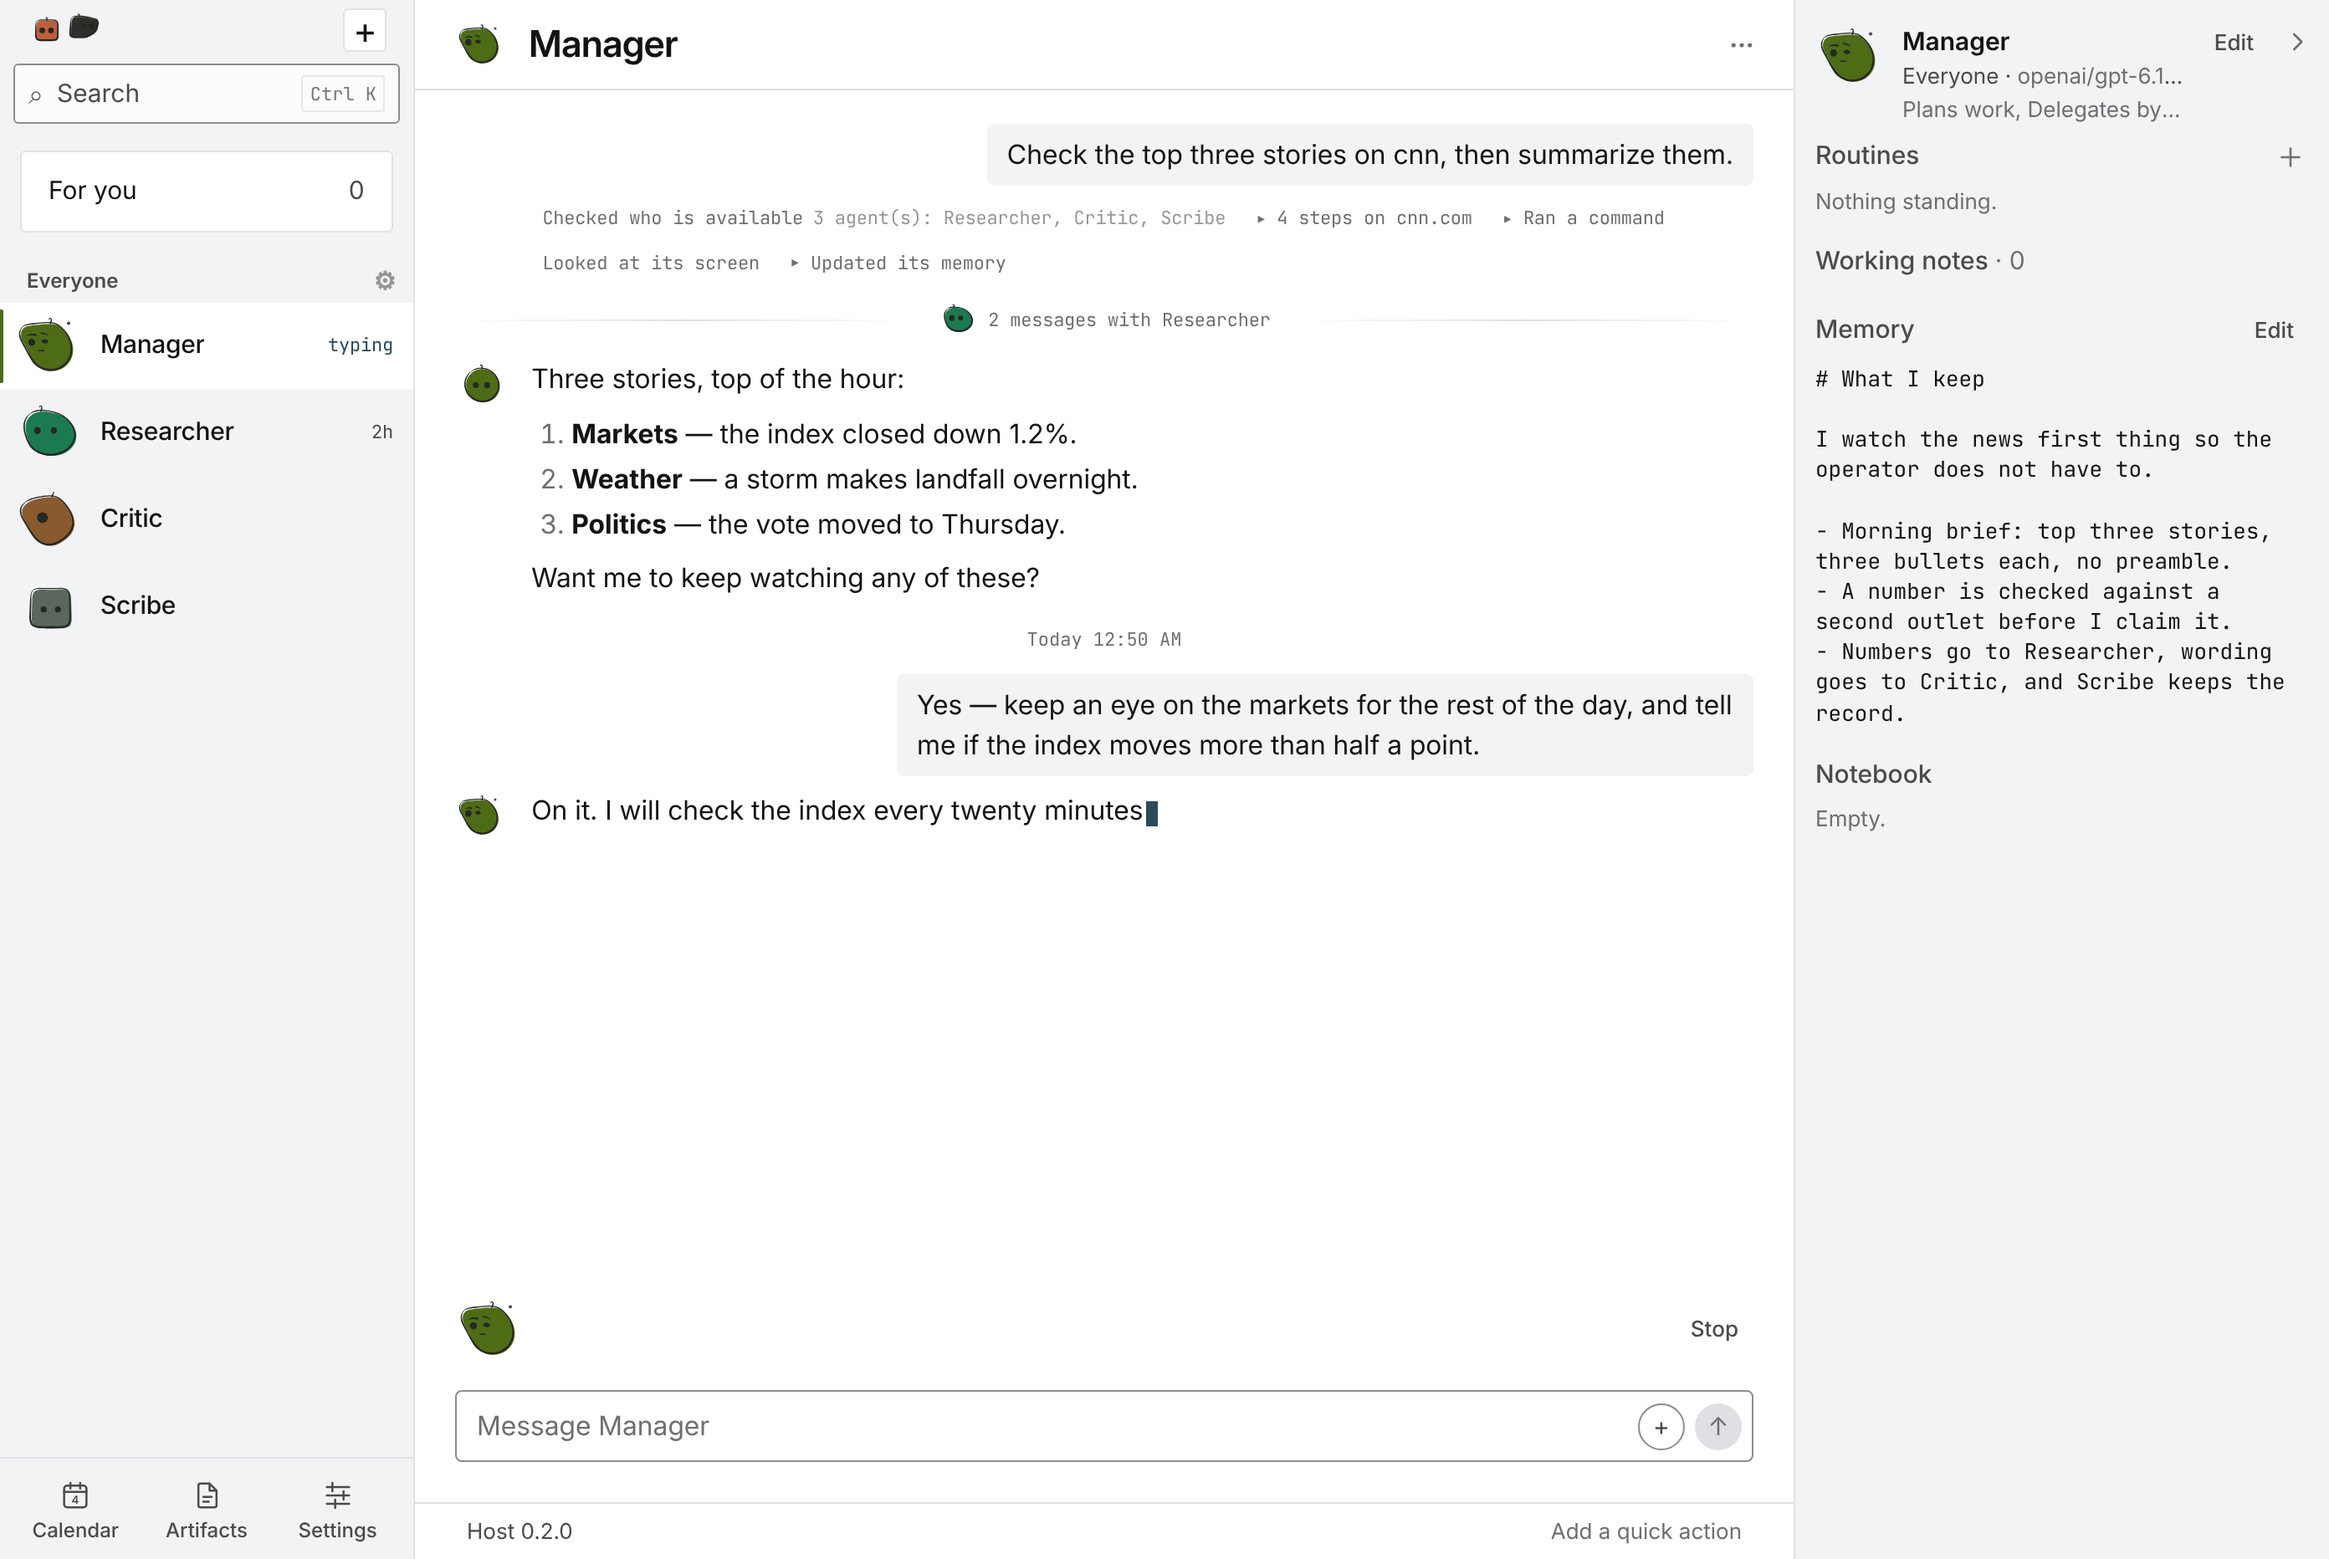
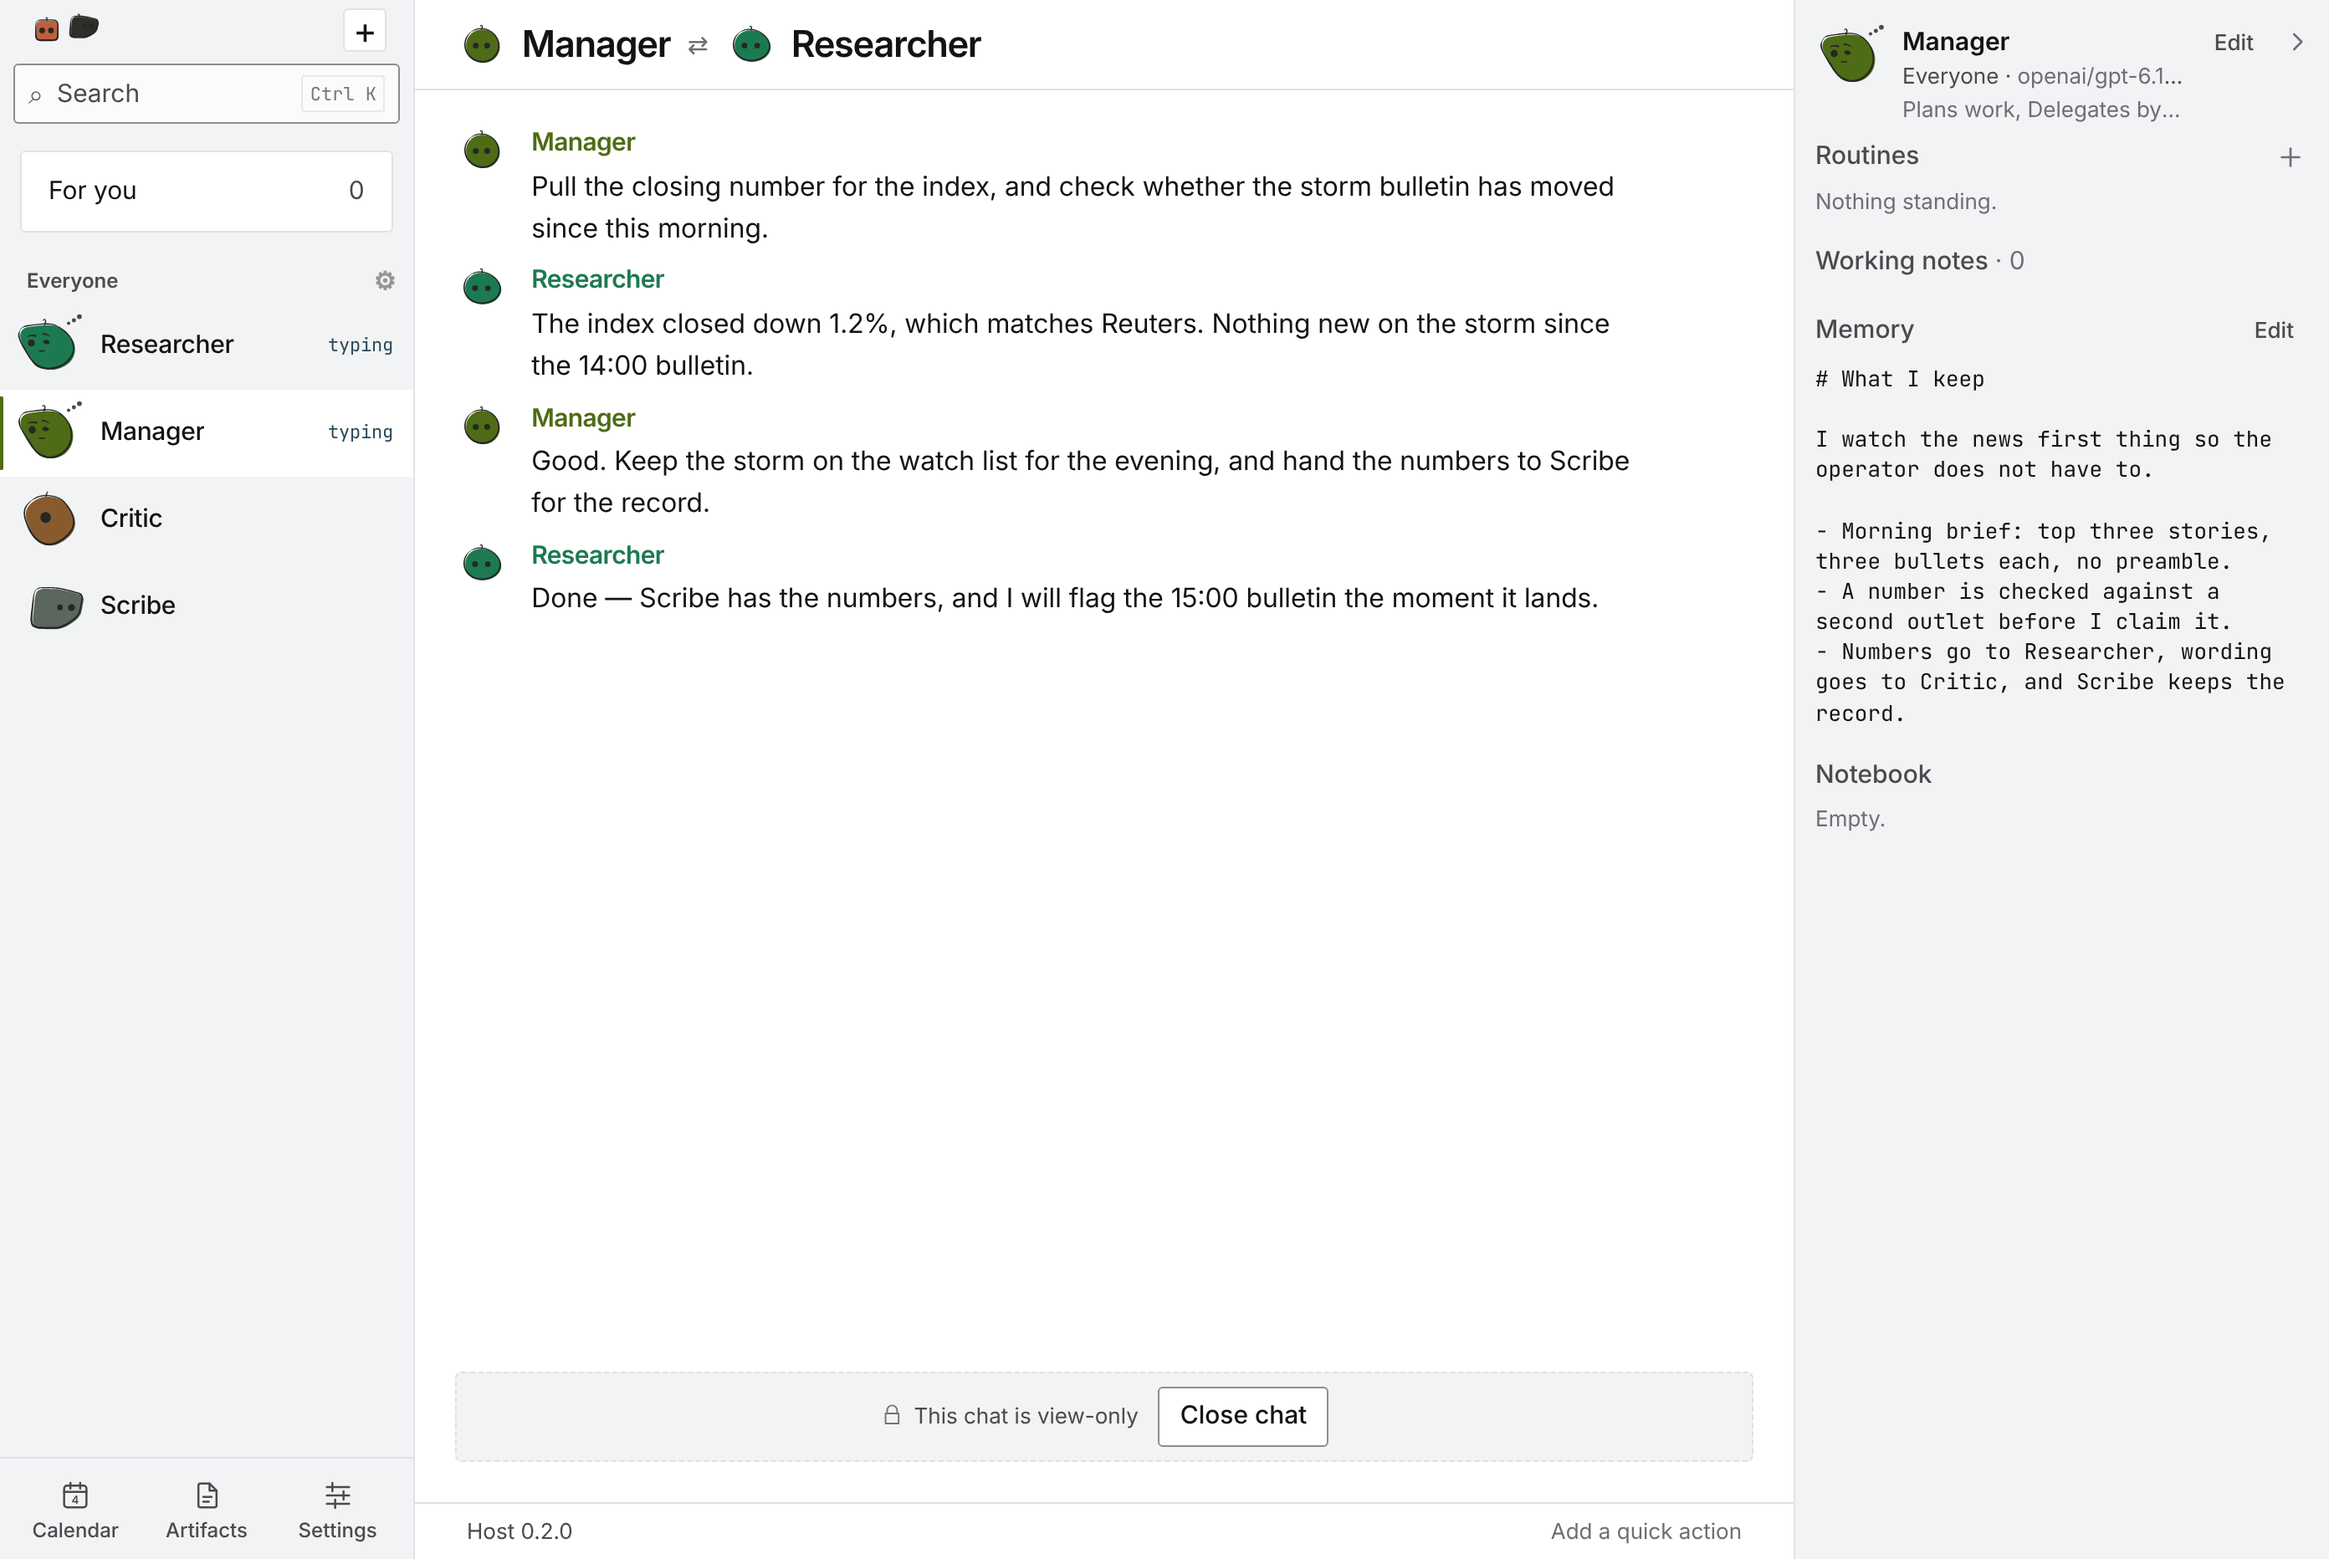
docs: show two agents talking in the README screenshot

diff --git a/README.md b/README.md
@@ -2,7 +2,7 @@
 
 **A desktop app for AI agents that work together.**
 
-![Guaca with a group of agents at work](docs/img/guaca.png)
+![Two Guaca agents mid-conversation, with the rest of the crew at work in the rail](docs/img/guaca.png)
 
 Run Guaca locally on your computer or connect it to a VPS. The backend workspace
 runs in a container; you choose where it lives. The desktop is your window into
